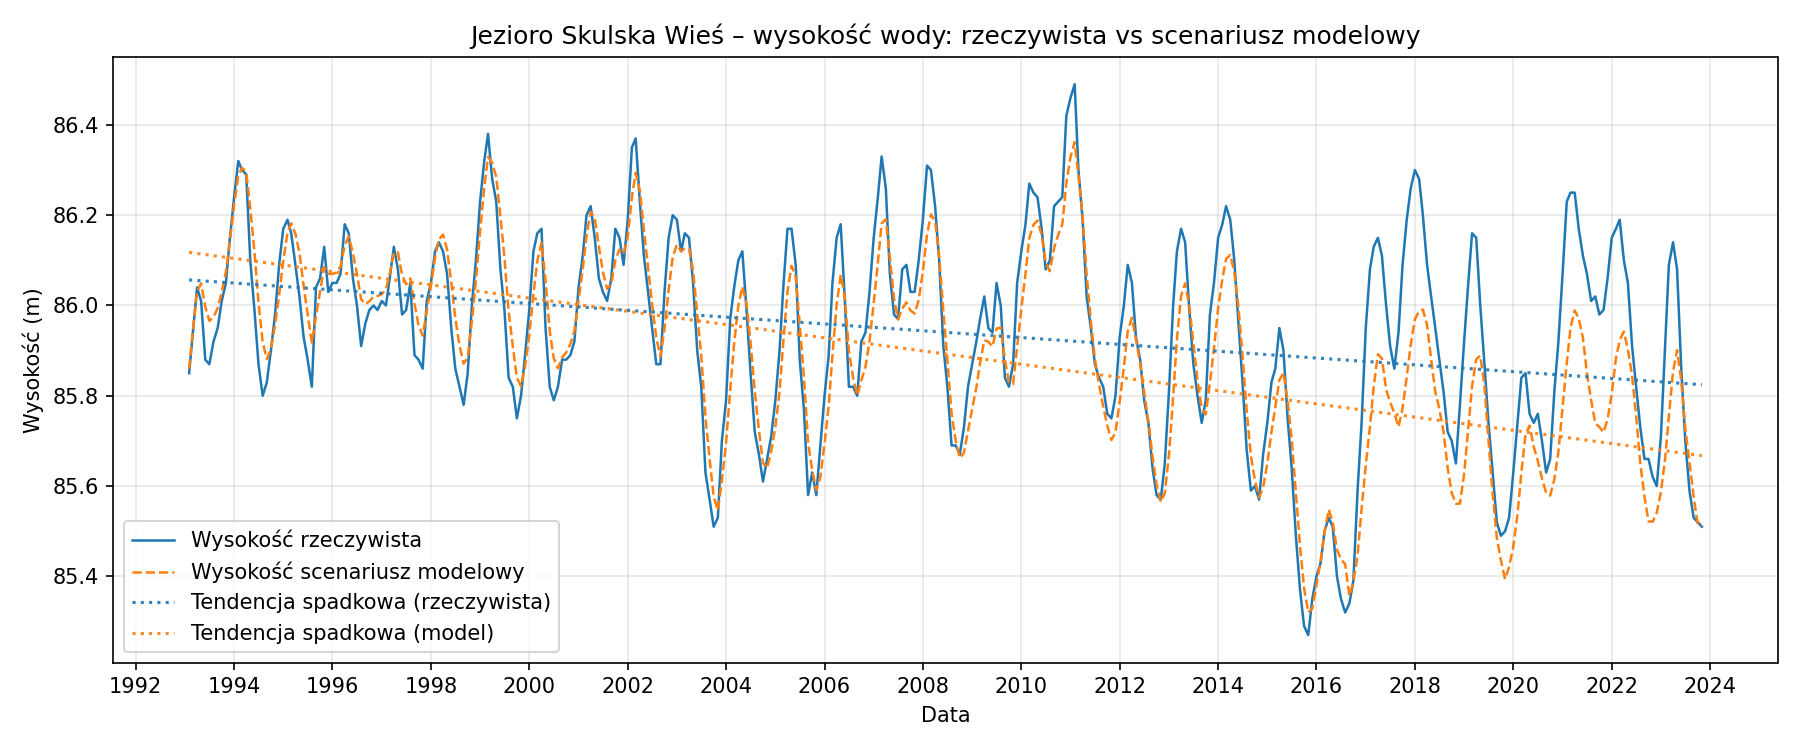
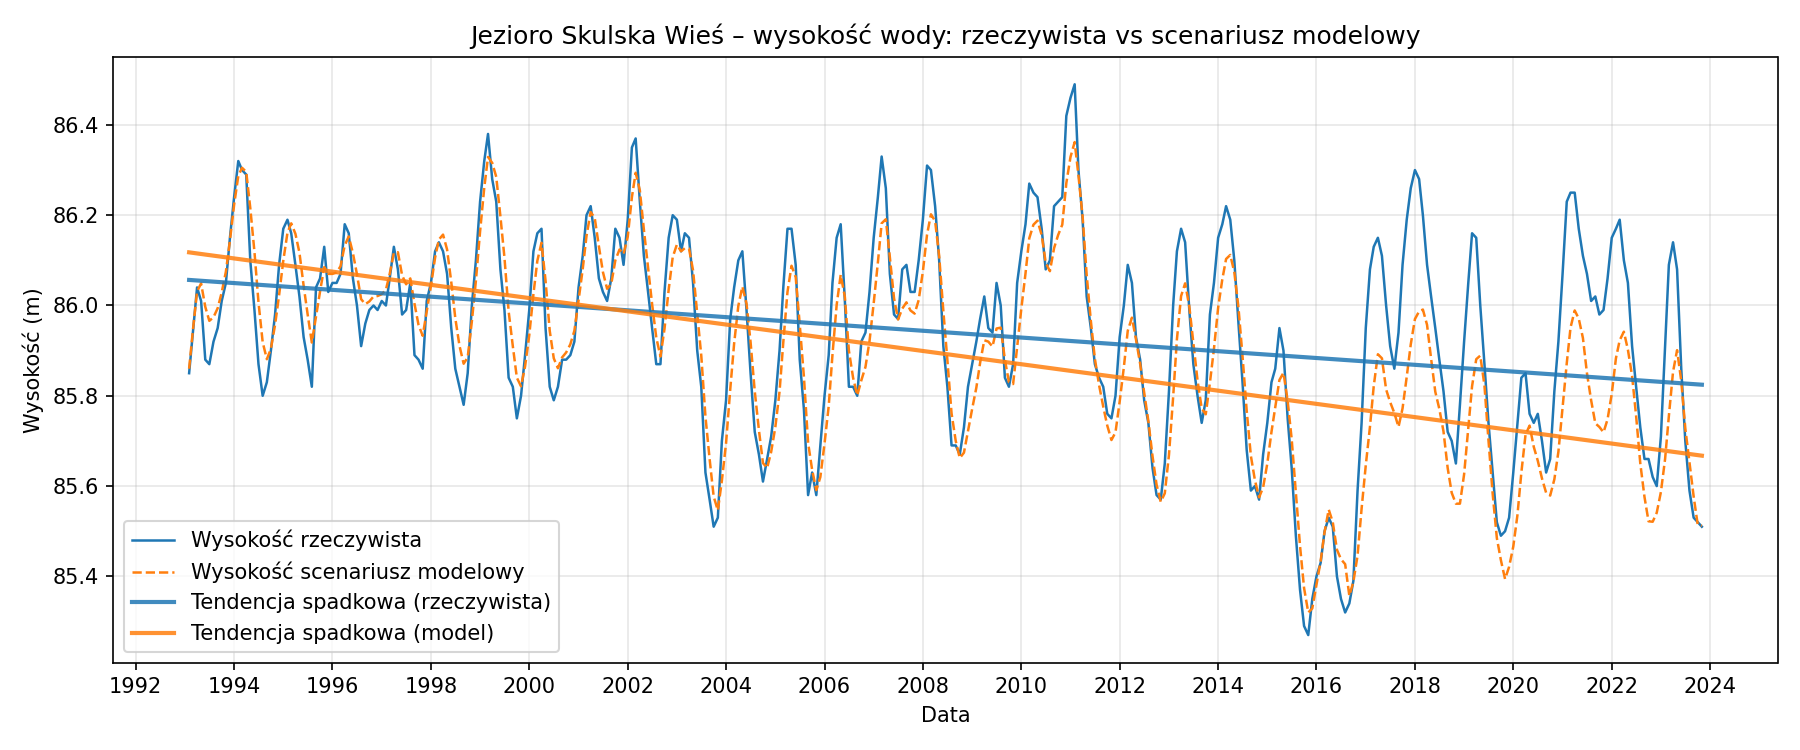
2026.02.14

diff --git a/generate_report.py b/generate_report.py
@@ -39,16 +39,22 @@ def _plot_wysokosci(rows, figs_dir, lake_name):
     dates = [np.datetime64(r["data"] + "-01") for r in rows]
     rzeczywista = np.array([r["wysokosc_rzeczywista"] for r in rows], dtype=float)
     model = np.array([r["wysokosc_model"] for r in rows], dtype=float)
-    x = np.arange(len(dates))
-    coef_r = np.polyfit(x, rzeczywista, 1)
-    coef_m = np.polyfit(x, model, 1)
-    trend_r = np.polyval(coef_r, x)
-    trend_m = np.polyval(coef_m, x)
+    n = len(dates)
     fig, ax = plt.subplots(figsize=(12, 5))
     ax.plot(dates, rzeczywista, label="Wysokość rzeczywista", color="#1f77b4", linewidth=1.2)
     ax.plot(dates, model, label="Wysokość scenariusz modelowy", color="#ff7f0e", linewidth=1.2, linestyle="--")
-    ax.plot(dates, trend_r, label="Tendencja spadkowa (rzeczywista)", color="#1f77b4", linewidth=1.5, linestyle=":", alpha=0.9)
-    ax.plot(dates, trend_m, label="Tendencja spadkowa (model)", color="#ff7f0e", linewidth=1.5, linestyle=":", alpha=0.9)
+    if n >= 2:
+        x = np.arange(n)
+        ok_r = np.isfinite(rzeczywista)
+        ok_m = np.isfinite(model)
+        if np.sum(ok_r) >= 2:
+            coef_r = np.polyfit(x[ok_r], rzeczywista[ok_r], 1)
+            trend_r = np.polyval(coef_r, x)
+            ax.plot(dates, trend_r, label="Tendencja spadkowa (rzeczywista)", color="#1f77b4", linewidth=2, linestyle="-", alpha=0.85)
+        if np.sum(ok_m) >= 2:
+            coef_m = np.polyfit(x[ok_m], model[ok_m], 1)
+            trend_m = np.polyval(coef_m, x)
+            ax.plot(dates, trend_m, label="Tendencja spadkowa (model)", color="#ff7f0e", linewidth=2, linestyle="-", alpha=0.85)
     ax.set_xlabel("Data")
     ax.set_ylabel("Wysokość (m)")
     ax.set_title(f"{lake_name} – wysokość wody: rzeczywista vs scenariusz modelowy")
